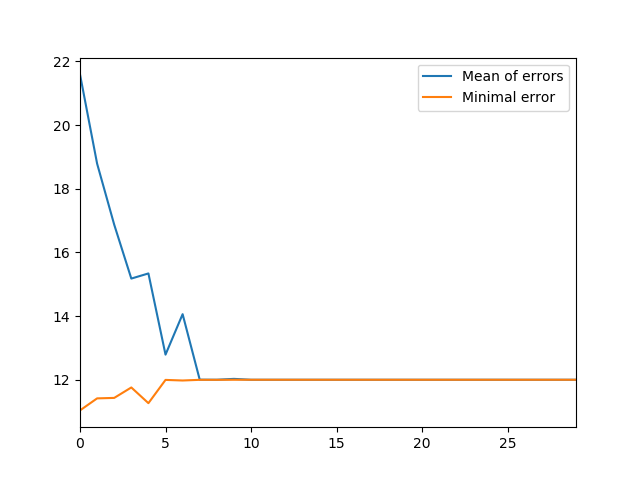
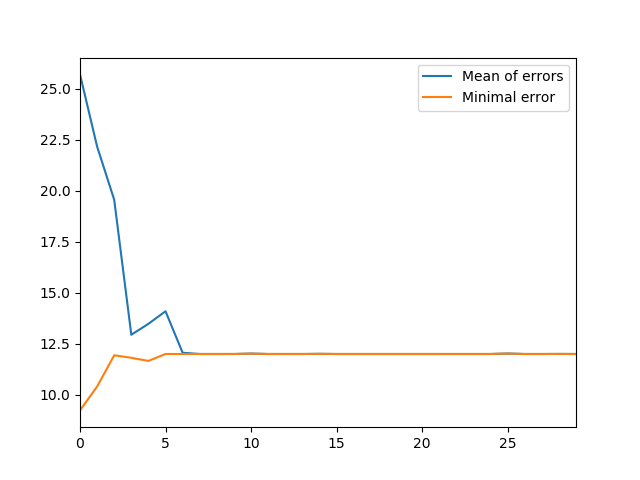
Fixed some wights issues Added save/load to networks

diff --git a/src/data.html b/src/data.html
@@ -9,153 +9,153 @@
   <tbody>
     <tr>
       <th>0</th>
-      <td>21.592264</td>
-      <td>11.037579</td>
+      <td>25.708485</td>
+      <td>9.234503</td>
     </tr>
     <tr>
       <th>1</th>
-      <td>18.789783</td>
-      <td>11.415205</td>
+      <td>22.172546</td>
+      <td>10.405903</td>
     </tr>
     <tr>
       <th>2</th>
-      <td>16.872798</td>
-      <td>11.430091</td>
+      <td>19.561144</td>
+      <td>11.936751</td>
     </tr>
     <tr>
       <th>3</th>
-      <td>15.178627</td>
-      <td>11.758240</td>
+      <td>12.943083</td>
+      <td>11.813461</td>
     </tr>
     <tr>
       <th>4</th>
-      <td>15.339793</td>
-      <td>11.265028</td>
+      <td>13.480315</td>
+      <td>11.661137</td>
     </tr>
     <tr>
       <th>5</th>
-      <td>12.789506</td>
-      <td>11.995456</td>
+      <td>14.095108</td>
+      <td>11.999876</td>
     </tr>
     <tr>
       <th>6</th>
-      <td>14.060395</td>
-      <td>11.976700</td>
+      <td>12.060774</td>
+      <td>12.000000</td>
     </tr>
     <tr>
       <th>7</th>
-      <td>12.002980</td>
-      <td>11.997786</td>
+      <td>11.999997</td>
+      <td>11.999997</td>
     </tr>
     <tr>
       <th>8</th>
-      <td>12.001198</td>
-      <td>11.997786</td>
+      <td>11.999998</td>
+      <td>11.999998</td>
     </tr>
     <tr>
       <th>9</th>
-      <td>12.027655</td>
-      <td>11.999965</td>
+      <td>12.000400</td>
+      <td>12.000400</td>
     </tr>
     <tr>
       <th>10</th>
-      <td>11.999997</td>
-      <td>11.999997</td>
+      <td>12.019503</td>
+      <td>12.019503</td>
     </tr>
     <tr>
       <th>11</th>
-      <td>12.000011</td>
-      <td>12.000011</td>
+      <td>11.999993</td>
+      <td>11.999993</td>
     </tr>
     <tr>
       <th>12</th>
-      <td>12.000006</td>
-      <td>12.000006</td>
+      <td>12.000413</td>
+      <td>12.000413</td>
     </tr>
     <tr>
       <th>13</th>
-      <td>12.000001</td>
-      <td>12.000001</td>
+      <td>12.000008</td>
+      <td>12.000008</td>
     </tr>
     <tr>
       <th>14</th>
-      <td>12.000000</td>
-      <td>12.000000</td>
+      <td>12.007284</td>
+      <td>12.007284</td>
     </tr>
     <tr>
       <th>15</th>
-      <td>12.000000</td>
-      <td>12.000000</td>
+      <td>12.000001</td>
+      <td>12.000001</td>
     </tr>
     <tr>
       <th>16</th>
-      <td>12.000000</td>
-      <td>12.000000</td>
+      <td>11.999981</td>
+      <td>11.999981</td>
     </tr>
     <tr>
       <th>17</th>
-      <td>11.999998</td>
-      <td>11.999998</td>
+      <td>11.999995</td>
+      <td>11.999995</td>
     </tr>
     <tr>
       <th>18</th>
-      <td>12.000004</td>
-      <td>12.000004</td>
+      <td>12.000002</td>
+      <td>12.000002</td>
     </tr>
     <tr>
       <th>19</th>
-      <td>12.000000</td>
-      <td>12.000000</td>
+      <td>12.000131</td>
+      <td>12.000131</td>
     </tr>
     <tr>
       <th>20</th>
-      <td>12.000001</td>
-      <td>12.000001</td>
+      <td>11.999981</td>
+      <td>11.999981</td>
     </tr>
     <tr>
       <th>21</th>
-      <td>12.000002</td>
-      <td>12.000002</td>
+      <td>12.000000</td>
+      <td>12.000000</td>
     </tr>
     <tr>
       <th>22</th>
-      <td>12.000005</td>
-      <td>12.000005</td>
+      <td>12.000029</td>
+      <td>12.000029</td>
     </tr>
     <tr>
       <th>23</th>
-      <td>11.999990</td>
-      <td>11.999990</td>
+      <td>12.000066</td>
+      <td>12.000066</td>
     </tr>
     <tr>
       <th>24</th>
-      <td>12.000161</td>
-      <td>12.000161</td>
+      <td>12.000066</td>
+      <td>12.000066</td>
     </tr>
     <tr>
       <th>25</th>
-      <td>11.999999</td>
-      <td>11.999999</td>
+      <td>12.021993</td>
+      <td>12.021993</td>
     </tr>
     <tr>
       <th>26</th>
-      <td>12.000004</td>
-      <td>12.000004</td>
+      <td>12.000012</td>
+      <td>12.000012</td>
     </tr>
     <tr>
       <th>27</th>
-      <td>11.999998</td>
-      <td>11.999998</td>
+      <td>11.999838</td>
+      <td>11.999838</td>
     </tr>
     <tr>
       <th>28</th>
-      <td>12.000000</td>
-      <td>12.000000</td>
+      <td>12.003064</td>
+      <td>12.003064</td>
     </tr>
     <tr>
       <th>29</th>
-      <td>11.999993</td>
-      <td>11.999993</td>
+      <td>12.000001</td>
+      <td>12.000001</td>
     </tr>
   </tbody>
 </table>

diff --git a/src/network/Network.py b/src/network/Network.py
@@ -5,12 +5,44 @@ class Network:
     weightsVector = []
 
     def setWeightsVector(self):
+        self.weightsVector = []
         for neuron in self.inputLayer:
             self.weightsVector.extend(neuron.weights)
         for neuron in self.hiddenLayer:
             self.weightsVector.extend(neuron.weights)
         for neuron in self.outputLayer:
             self.weightsVector.extend(neuron.weights)
+
+    def updateNetwork(self):
+        inputLayerLen = len(self.inputLayer)
+        hiddenLayerLen = len(self.hiddenLayer)
+        outputLayerLen = len(self.outputLayer)
+        counter = 0
+        while counter < inputLayerLen:
+            self.inputLayer[counter].weights[0] = self.weightsVector[counter]
+            counter = counter + 1
+        while counter < hiddenLayerLen * inputLayerLen:
+            neuronCounter = 0
+            weightCounter = 0
+            self.hiddenLayer[neuronCounter].weights[weightCounter] = self.weightsVector[counter]
+            neuronCounter = neuronCounter + 1
+            weightCounter = weightCounter + 1
+            if neuronCounter == hiddenLayerLen:
+                neuronCounter = 0
+            if weightCounter == inputLayerLen:
+                weightCounter = 0
+            counter = counter + 1
+        while counter < hiddenLayerLen * outputLayerLen:
+            neuronCounter = 0
+            weightCounter = 0
+            self.outputLayer[neuronCounter].weights[weightCounter] = self.weightsVector[counter]
+            neuronCounter = neuronCounter + 1
+            weightCounter = weightCounter + 1
+            if neuronCounter == hiddenLayerLen:
+                neuronCounter = 0
+            if weightCounter == inputLayerLen:
+                weightCounter = 0
+            counter = counter + 1
 
     def displayInputLayer(self):
         for neuron in self.inputLayer:

diff --git a/src/learning/evolutionManager.py b/src/learning/evolutionManager.py
@@ -122,14 +122,14 @@ class EvolutionManager:
             rd = random.random()
             if rd >= 94:
                 weightId = random.randint(0, network.outputLayer[0].weights)
-                network.outputLayer[0].weights[weightId] = random.randrange(-5, 5)
+                network.outputLayer[0].weights[weightId] = random.uniform(-5, 5)
             if 46 < rd < 94:
                 weightId = random.randint(0, (len(network.hiddenLayer[0].weights) - 1))
                 neuronId = random.randint(0, (len(network.hiddenLayer) - 1))
-                network.hiddenLayer[neuronId].weights[weightId] = random.randrange(-5, 5)
+                network.hiddenLayer[neuronId].weights[weightId] = random.uniform(-5, 5)
             else:
                 neuronId = random.randint(0, (len(network.inputLayer) - 1))
-                network.hiddenLayer[neuronId].weights[0] = random.randrange(-5, 5)
+                network.inputLayer[neuronId].weights[0] = random.uniform(-5, 5)
         return network
 
     def getBestInstance(self):

diff --git a/src/neuron/NeuronFactory.py b/src/neuron/NeuronFactory.py
@@ -8,7 +8,7 @@ class NeuronFactory:
     def createInputNeuron(name):
         neuron = Neuron(name)
         neuron.inputs = [0]
-        neuron.weights = [rd.random()]
+        neuron.weights = [rd.uniform(-5, 5)]
         return neuron
 
     @staticmethod
@@ -17,7 +17,7 @@ class NeuronFactory:
         neuron.inputs = [0, 0, 0, 0, 0, 0, 0, 0, 0]
         neuron.weights = [0, 0, 0, 0, 0, 0, 0, 0, 0]
         for x in neuron.weights:
-            neuron.weights[neuron.weights.index(x)] = rd.randrange(-5, 5)
+            neuron.weights[neuron.weights.index(x)] = rd.uniform(-5, 5)
         return neuron
 
     @staticmethod
@@ -26,5 +26,5 @@ class NeuronFactory:
         neuron.inputs = [0, 0, 0, 0, 0, 0, 0, 0, 0]
         neuron.weights = [0, 0, 0, 0, 0, 0, 0, 0, 0]
         for x in neuron.weights:
-            neuron.weights[neuron.weights.index(x)] = rd.randrange(-5, 5)
+            neuron.weights[neuron.weights.index(x)] = rd.uniform(-5, 5)
         return neuron

diff --git a/src/networkSaving/NetworkSavingService.py b/src/networkSaving/NetworkSavingService.py
@@ -1,0 +1,19 @@
+class NetworkSavingService:
+
+    @staticmethod
+    def saveNetworkToFile(network, fileName):
+        with open(fileName, 'w') as f:
+            for item in network.weightsVector:
+                f.write("%s\n" % item)
+
+    @staticmethod
+    def makeNetworkFromFile(network, fileName):
+        with open(fileName) as f:
+            networkVector = f.readlines()
+        for item in networkVector:
+            length = len(item)
+            newItem = item[0: length - 3]
+            networkVector[networkVector.index(item)] = newItem
+        network.weightsVector = networkVector
+        network.updateNetwork()
+        return network

diff --git a/src/_init_.py b/src/_init_.py
@@ -1,10 +1,12 @@
 from src.dataLoading.dataManager import DataManager
 from src.learning.evolutionManager import EvolutionManager
+from src.networkSaving.NetworkSavingService import NetworkSavingService
 from src.plotting.plottingService import PlottingService
 
 dataManager = DataManager("learningData.txt")
 
-evolutionManager = EvolutionManager(500, 30, 0.2)
+evolutionManager = EvolutionManager(100, 30, 0.2)
+networkSavingService = NetworkSavingService()
 outputData = evolutionManager.proceedAlgorithm(dataManager.dataList)
 
 plottingService = PlottingService()
